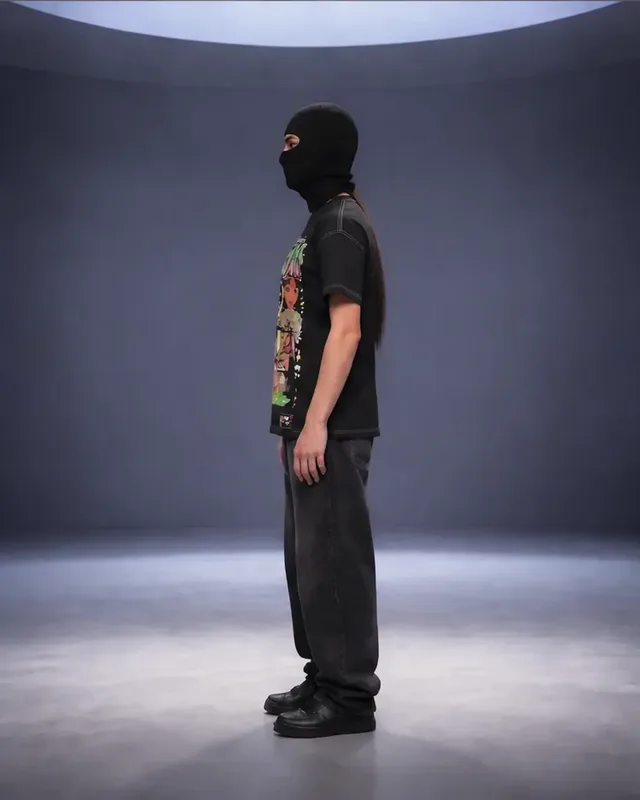
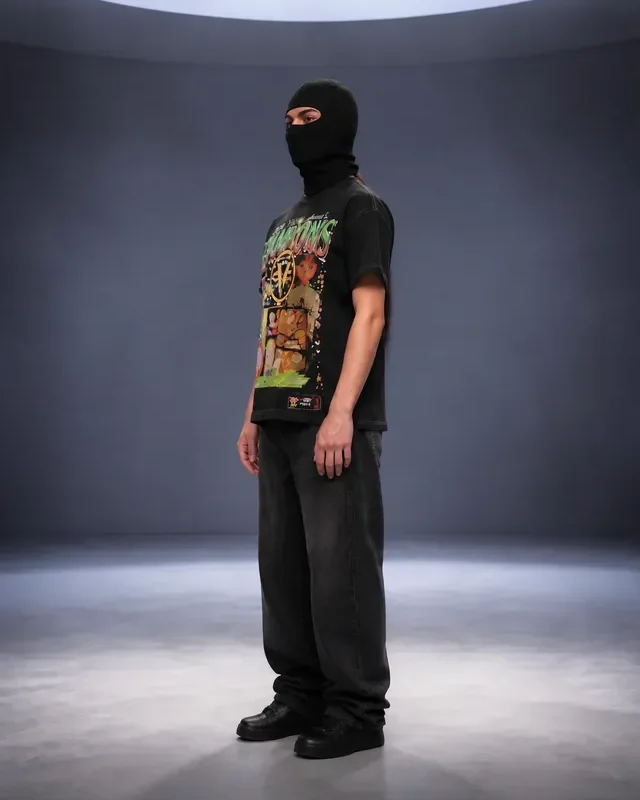
Cabine femme: side views turned ~65 deg on the 7 printed pieces so the chest print stays visible
Claude-Session: https://claude.ai/code/session_01JHKczBwFKYFofkfxCnLE6j

Changed region(s): [[0.0, 0.0938, 1.0, 1.0], [0.0312, 0.0, 0.9688, 0.0625]]

diff --git a/src/components/collection/CabineViewer.tsx b/src/components/collection/CabineViewer.tsx
@@ -4,7 +4,7 @@ import { useCallback, useEffect, useRef, useState } from "react";
 
 export const CABINE_FRAMES = 8;
 /** Bump when the fitting-room photos change: busts copies cached by phones. */
-const CABINE_VERSION = "20261011d";
+const CABINE_VERSION = "20261011e";
 /** Degrees turned per pixel dragged: one viewport width is half a turn. */
 const DEG_PER_PX = 0.45;
 const FRICTION = 0.92;
